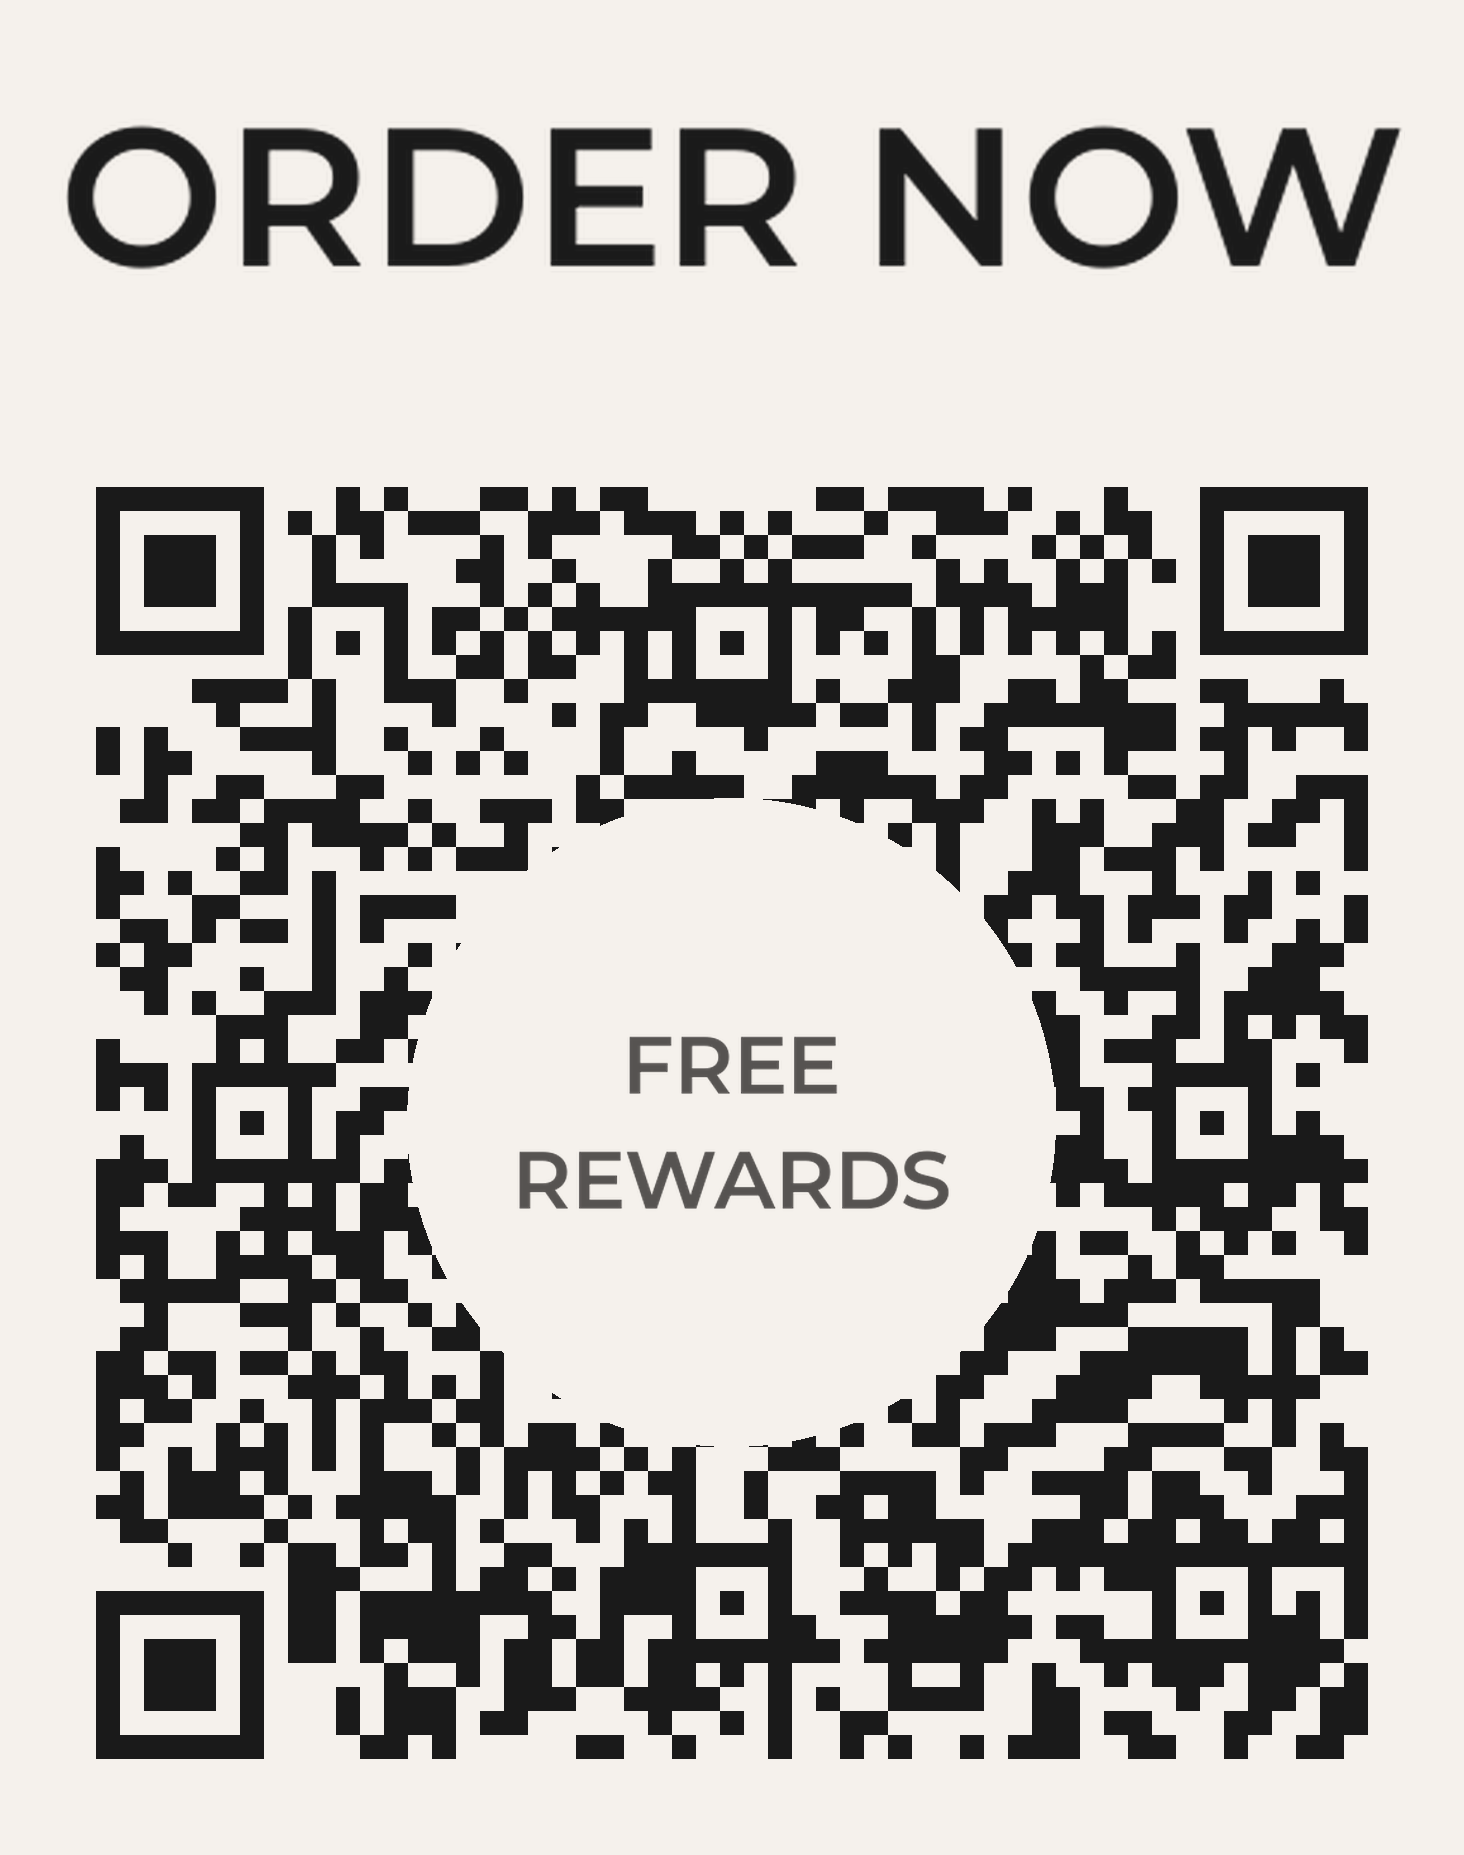
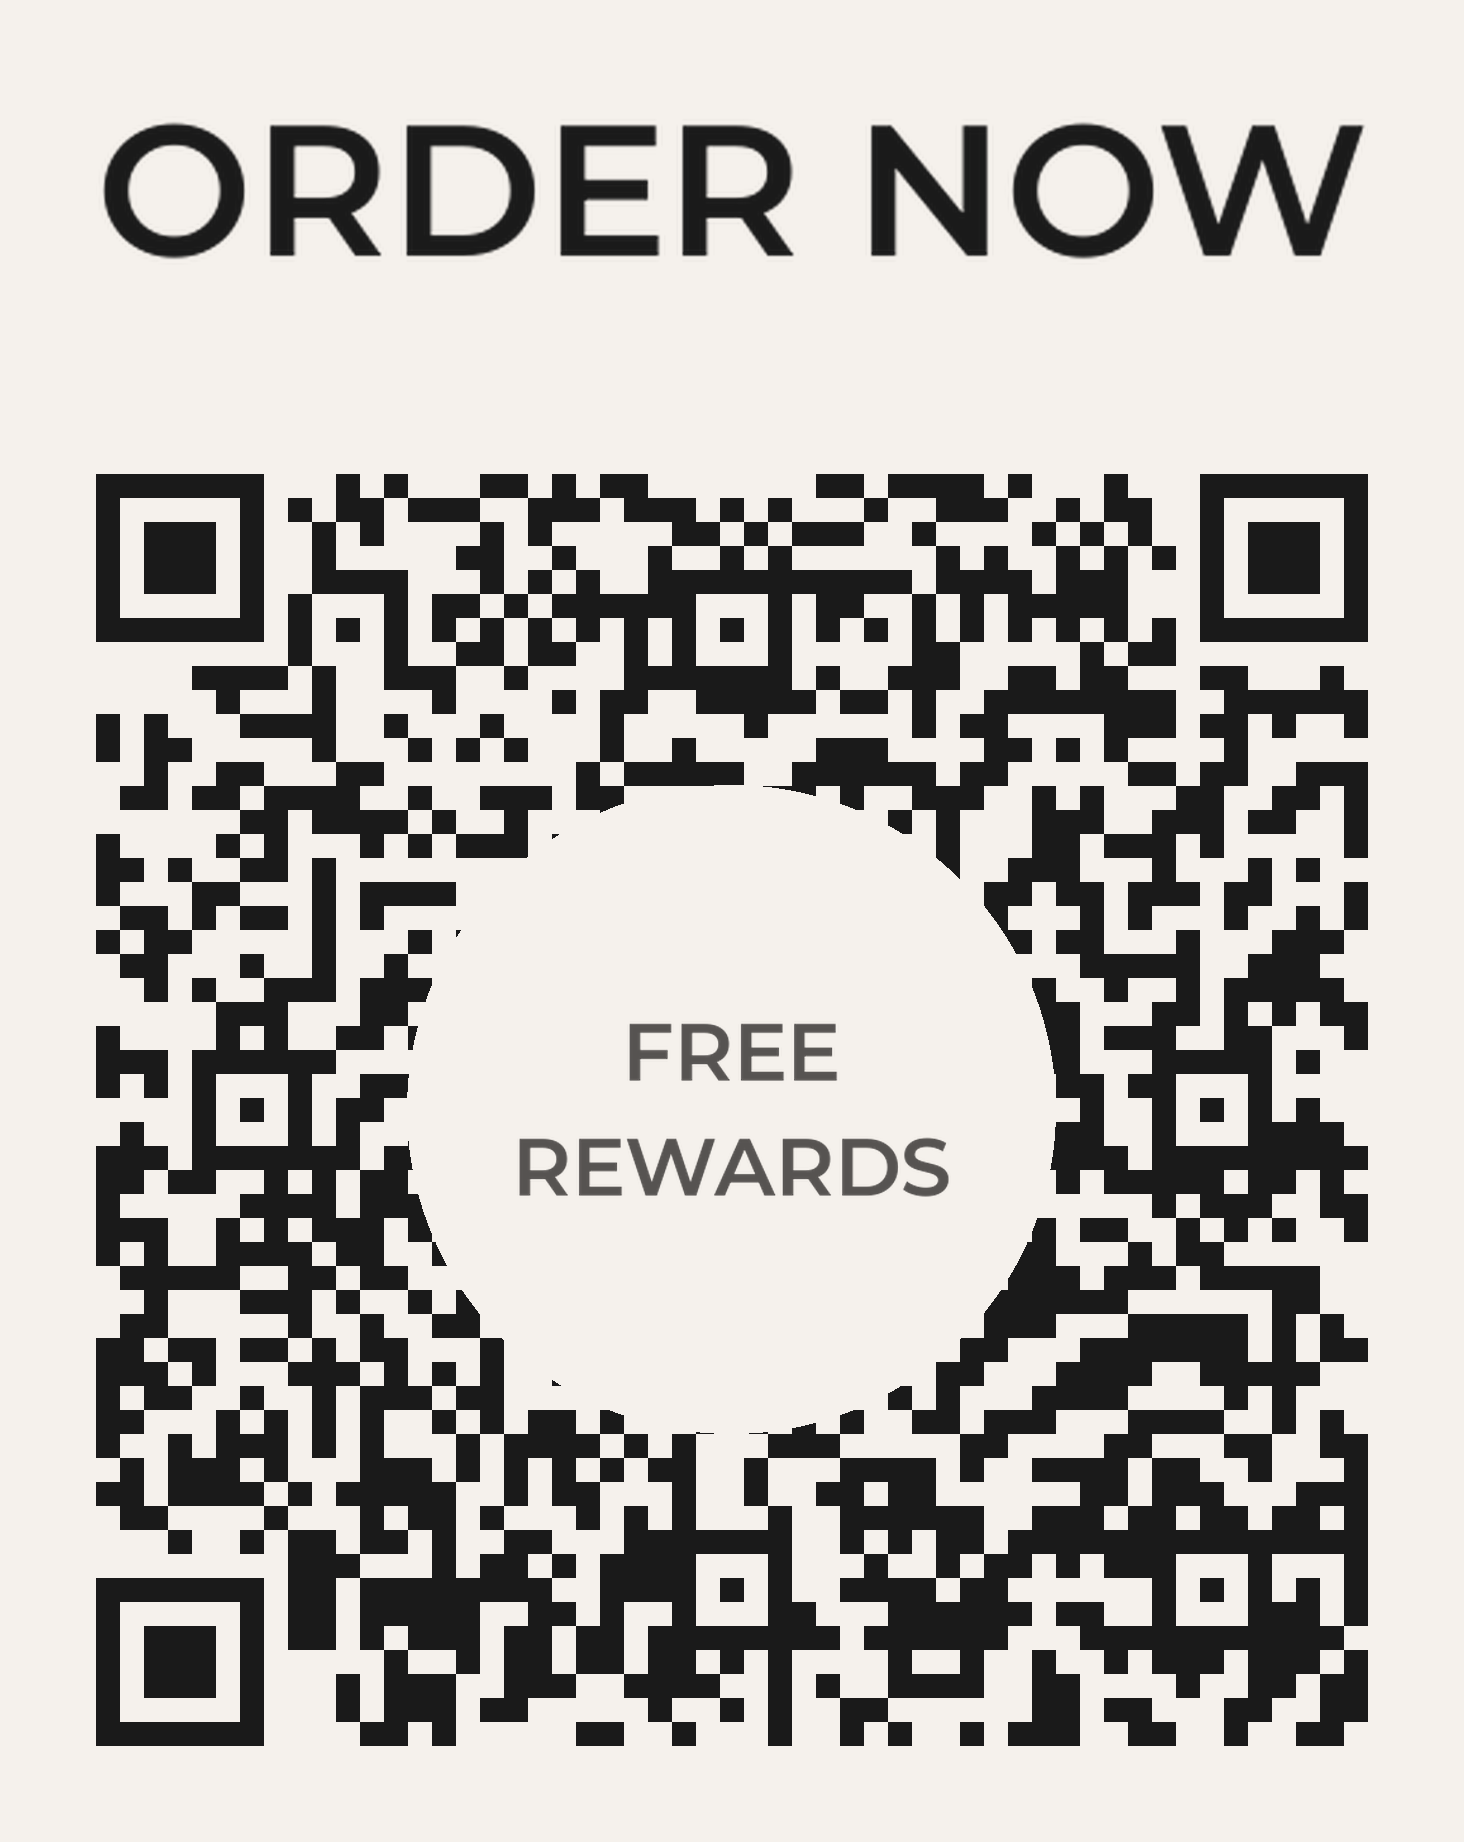
qr: full-width caption spans the QR PATTERN width (W-quietzone), not the image width
Fixes ORDER NOW header overhanging the code. Reviewed A+B rendered output: header
now flush with the finder patterns.

diff --git a/qr/make-qr.py b/qr/make-qr.py
@@ -256,8 +256,12 @@ def make_stand(url, out_path, lines, icon="none", dark=False, caption_pos="below
     caption = label_block(lines, ink, icon_fn=None, font=mont)   # text-only, no icon
 
     if caption_full_width:
-        # Big header: scale the caption to span ~the full QR width; band fits its height.
-        sc = int(W * 0.92) / caption.size[0]
+        # Big header: scale the caption to span the QR PATTERN width (the dark
+        # modules), not the image width. The QR has a 4-module quiet-zone border at
+        # box_size 24 -> 96px of cream each side, so the pattern is W-192 wide and
+        # centred; matching that makes the header flush with the code, not overhanging.
+        quiet = 4 * 24
+        sc = (W - 2 * quiet) / caption.size[0]
         caption = caption.resize((int(caption.size[0] * sc), int(caption.size[1] * sc)), Image.LANCZOS)
         cw, ch = caption.size
         band_h = ch
